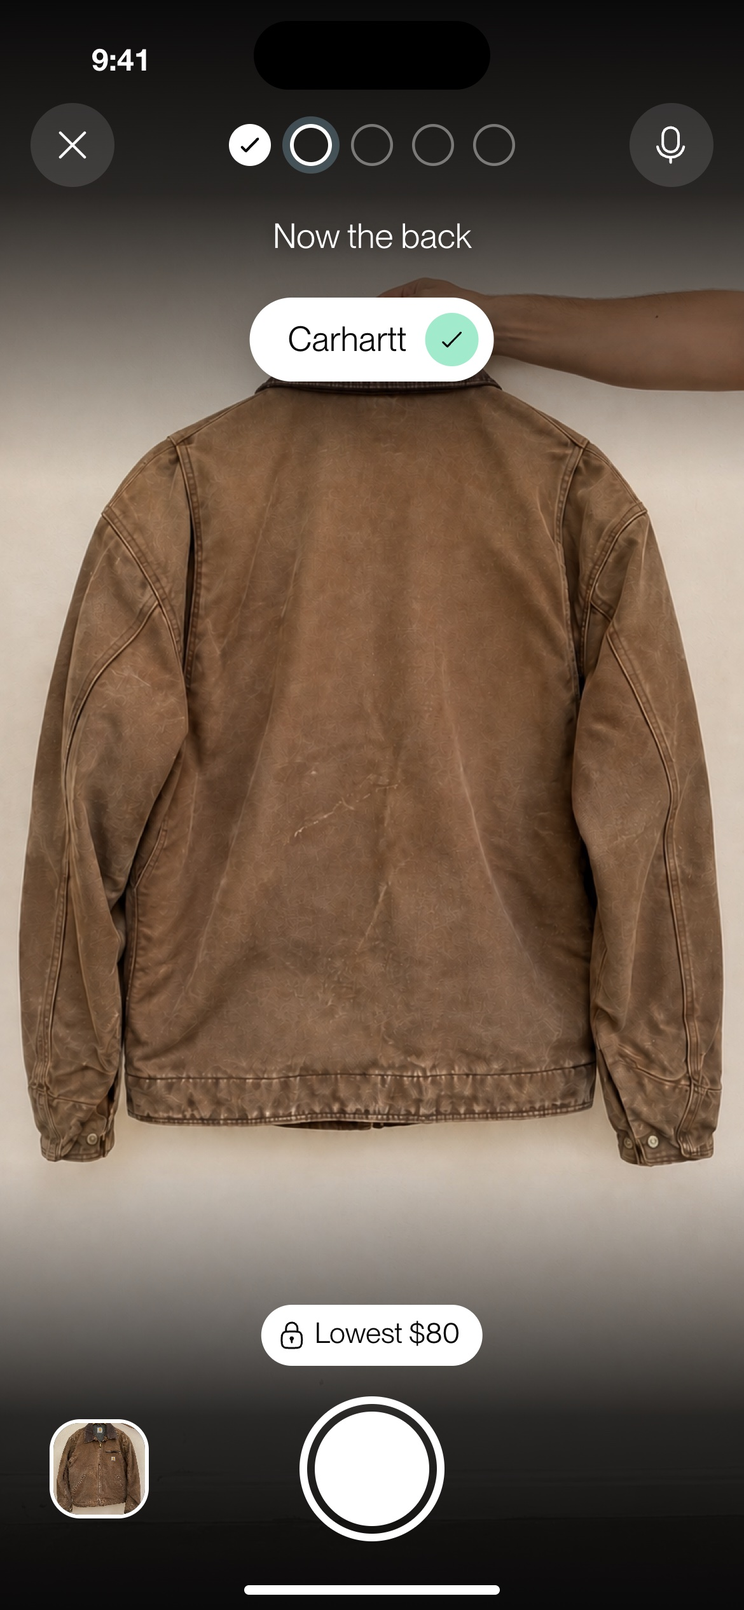
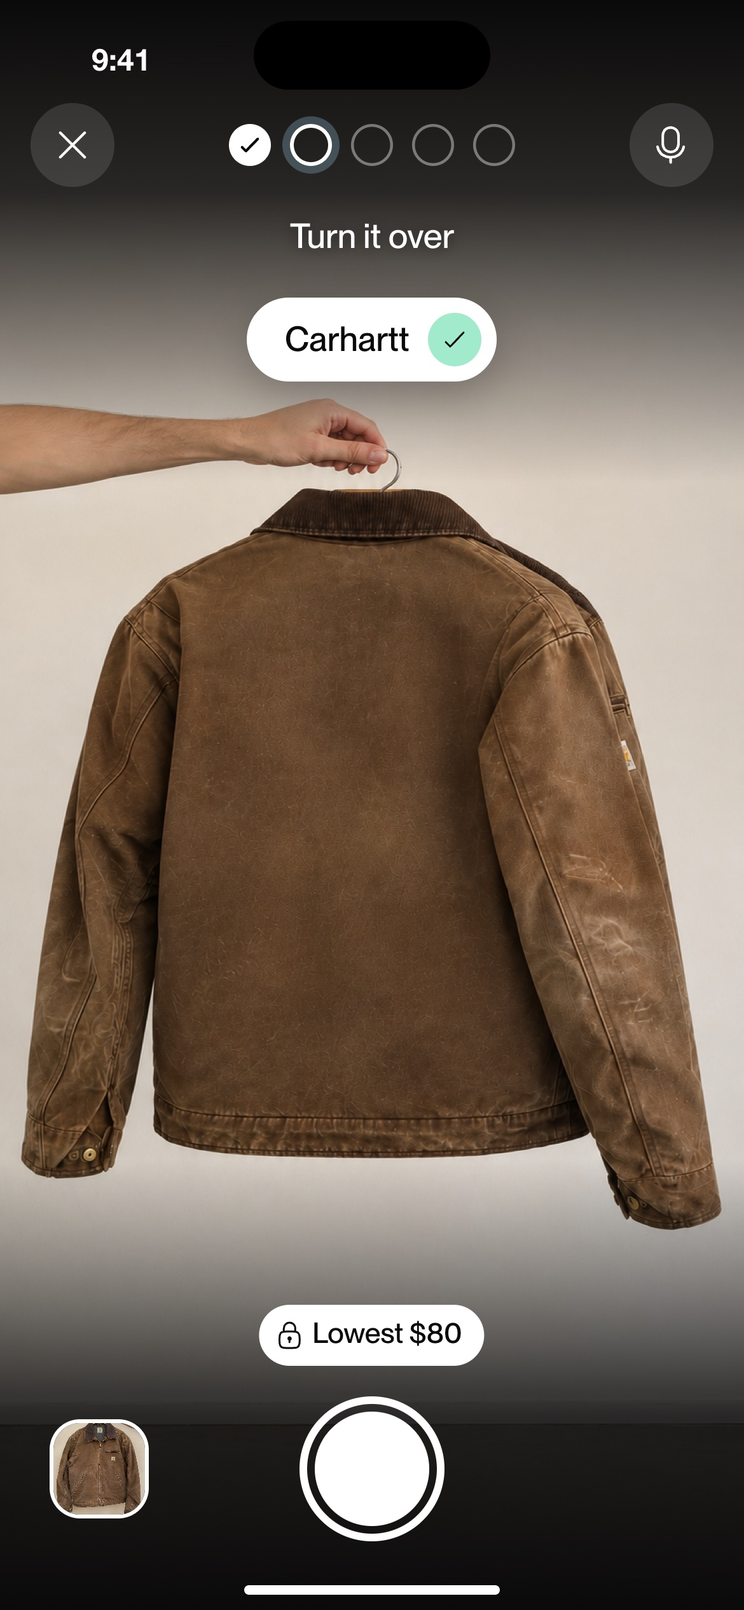
design(capture,buy): weight 500, tab pill, stages from the attribute tree
Camera: five stages for this jacket from the attribute tree, each frame's
instruction taken from it and true to its photo, and a mid-turn photo so the
found pop lands on plain wall. Buy: the current tab's pill, a stronger wash
that ends at the search field on a white page, View listing with Watch and
More, and the read at the tag icon size. Contrast measured on the renders.

Rests-on: product/words.md (Ben 2026-11-15 03:22, 03:24, 03:45), research/capture/ben/item-attributes-by-site.md section 4, spec/features/capture.md, brand/explore/round-11/mock

diff --git a/brand/explore/camera-buy/camera/camera.html b/brand/explore/camera-buy/camera/camera.html
@@ -9,7 +9,7 @@
 <link rel="stylesheet" href="../../round-11/mock/screens.css">
 <link rel="stylesheet" href="camera.css">
 <style>
-  body { margin: 0; background: var(--gray); font: var(--w-regular) var(--t-15)/var(--lh-15) var(--font-text); }
+  body { margin: 0; background: var(--gray); font: var(--w-text) var(--t-15)/var(--lh-15) var(--font-text); }
   .wall { display: flex; flex-wrap: wrap; gap: var(--s-6); padding: var(--s-6) var(--s-5); align-items: flex-start; }
   .bare .wall { padding: 0; gap: 0; }
 </style>
@@ -21,24 +21,28 @@
 // The photos under it are generated stand-ins for the live feed (features/capture/design/feed/). The order of shots and the found fact are sample content for a jacket.
 // Motion (how the pop arrives and leaves, the point cloud, haptics, voice) is the camera motion preview's, not this still's.
 const I = n => `<svg class="ic" viewBox="0 0 24 24" fill="none" aria-hidden="true">${SH_ICONS[n]}</svg>`;
-const STAGES = 5;
+// The stages that appear on the camera for this jacket, in the order of research/capture/ben/item-attributes-by-site.md section 4:
+// Kind, Photos, Label, Measure, Condition. Match, Category, Details and Size are skipped because the tag answers them; Review is after the camera.
+// A stage is one circle, so the front and the back share the Photos circle. Each instruction is that section's line for the stage,
+// or the capture spec's line for the view still missing ("Turn it over"), and each is true to its photo: it names what to do next.
+const STAGES = ['Kind', 'Photos', 'Label', 'Measure', 'Condition'];
 const MOMENTS = {
-  front: { ask: 'Show the front', done: 0, feed: 'feed-front', found: null },
-  back:  { ask: 'Now the back', done: 1, feed: 'feed-back', found: 'Carhartt', last: 'feed-front' },
-  tag:   { ask: 'Now the tag', done: 2, feed: 'feed-tag', found: null, last: 'feed-back' },
+  front: { ask: 'Lay it flat', done: 1, feed: 'feed-front', found: null },
+  back:  { ask: 'Turn it over', done: 1, feed: 'feed-turn', found: 'Carhartt', last: 'feed-front' },
+  tag:   { ask: 'Closer on the tag', done: 2, feed: 'feed-tag', found: null, last: 'feed-back' },
 };
 const FEED = '../../../../features/capture/design/feed/';
 
 function screen(k, low) {
   const m = MOMENTS[k];
-  const stages = Array.from({ length: STAGES }, (_, i) => `<li data-part="stage" class="${i < m.done ? 'done' : i === m.done ? 'now' : ''}">${I('tick')}</li>`).join('');
+  const stages = STAGES.map((name, i) => `<li data-part="stage" aria-label="${name}" class="${i < m.done ? 'done' : i === m.done ? 'now' : ''}">${I('tick')}</li>`).join('');
   return `<div class="sh fixed cam" data-view data-moment="${k}">
     <img class="feed" src="${FEED}${m.feed}.jpg" alt="Camera view">
     <i class="shade"></i>
     <div class="os" data-chrome><span>9:41</span><span></span></div>
     <div class="bar">
       <button class="round" data-part="cam-round" aria-label="Close">${I('close')}</button>
-      <ol class="stages" aria-label="${m.done} of ${STAGES} photos taken">${stages}</ol>
+      <ol class="stages" aria-label="${m.done} of ${STAGES.length} steps done">${stages}</ol>
       <button class="round" data-part="cam-round" aria-label="Talk" aria-pressed="false">${I('mic')}</button>
     </div>
     <p class="ask" aria-live="polite">${m.ask}</p>

diff --git a/brand/explore/camera-buy/buy/buy.css b/brand/explore/camera-buy/buy/buy.css
@@ -5,6 +5,10 @@
   --find-h: 56px;                  /* the search field: one tall control, the first thing on the tab */
   --match-photo: 180px;            /* the new match's photo: the largest thing in its card */
   --shelf-tile: 108px;             /* a tile on the Watching and Bought shelves: three fill the width between the margins */
+  /* The wash, as Ben asked at 03:22: stronger, an accent, ending no lower than the first control. Built from the ring's tokens */
+  --wash-1: color-mix(in srgb, var(--sky) 70%, transparent); --wash-2: color-mix(in srgb, var(--mint) 60%, transparent);
+  --wash: radial-gradient(120% 90% at 15% 0%, var(--wash-1), transparent 70%), radial-gradient(90% 80% at 95% 0%, var(--wash-2), transparent 70%);   /* tokens.css's --wash, restated so it reads these two stops */
+  --wash-h: calc(54px + var(--nav-h) + var(--s-4) + var(--find-h));   /* status bar, nav, gap, search field: the wash ends at the field's lower edge */
 }
 
 /* One field for words or a pasted link, with the camera inside it. Text you type is 18 (Art. 6) */
@@ -22,7 +26,7 @@
 .buy .match .big .ph { width: 100%; height: var(--match-photo); }
 .buy .match .big .site { right: var(--s-2); bottom: var(--s-2); }
 .buy .read { display: flex; align-items: center; gap: var(--s-1); }
-.buy .read .ic { width: 16px; height: 16px; }
+.buy .read .ic { width: var(--tag-icon); height: var(--tag-icon); }   /* a tag's icon size */
 .buy .two { display: grid; grid-template-columns: 1fr 1fr; gap: var(--s-3); }
 .buy .card.field .i2 { color: var(--on-field-2); }
 
@@ -31,10 +35,11 @@
 .buy .shelf .t { width: var(--shelf-tile); flex: none; }
 .buy .shelf .ph { width: var(--shelf-tile); height: var(--shelf-tile); }
 
-/* Round 11 shows a chosen tab by filling the icon's first path. The magnifier's first path is its handle, so the lens vanished:
-   here the lens is the filled part and the handle stays a stroke */
-.buy .tab[aria-current] .ic > :first-child { fill: none; stroke: currentColor; }
-.buy .tab[aria-current] .ic > :nth-child(2) { fill: currentColor; stroke: currentColor; }
+/* Ben, 03:45: the current tab shows a pill behind its icon. Round 11 has no such part yet, so it is drawn here from tokens; it belongs in screens.css.
+   The icon stays a line drawing, which also undoes the kit's fill of the first path (the Buy magnifier lost its lens to it) */
+.buy .tab:not(.add) .ic { box-sizing: content-box; padding: var(--s-1) var(--s-4); border-radius: var(--r-pill); }   /* every tab keeps the pill's room, so the labels stay on one line */
+.buy .tab[aria-current] .ic { background: var(--gray); }
+.sh.buy .tab[aria-current] .ic > :nth-child(n) { fill: none; stroke: currentColor; }
 
 /* Shelf titles are headings for a screen reader, not bold: the brand has no bold (Art. 6) */
-.buy h2 { font-weight: var(--w-regular); margin: 0; }
+.buy h2 { font-weight: var(--w-text); margin: 0; }

diff --git a/brand/explore/camera-buy/buy/buy.html b/brand/explore/camera-buy/buy/buy.html
@@ -43,10 +43,10 @@ const prices = (ask, fair) => `<div class="two">${ask ? `<div><div class="t13 i2
 // The new match is the one thing on the field, so it is the news, said once
 const match = `<div class="card field match" data-part="card-match">
   <span class="big">${photo('carhartt-jacket', 'Carhartt Detroit jacket')}${site('depop')}</span>${V(12)}
-  <div class="read t15">${ic('tick')}${lb('Fair price')}</div>${V(4)}
+  <div class="read t15">${ic('tick')}${lb('Fair price')}</div>${V(8)}
   <div class="t18 one">Carhartt Detroit jacket, M</div>${V(12)}
   ${prices('$62', '$55 to $70')}${V(16)}
-  <div class="ln"><button class="pill" data-part="pill-card">${lb('View listing')}</button></div></div>`;
+  <div class="ln"><button class="pill tall grow" data-part="pill-bar">${lb('View listing')}</button>${H(8)}<button class="pill l2 tall" data-part="pill-bar">${lb('Watch')}</button>${H(8)}<button class="pill dot l2 tall" aria-label="More" data-part="pill-bar-icon">${ic('more')}</button></div></div>`;   // the kit's acts(): the act grows, a light second, the rest under More
 // No match yet: what they asked for, with their own photo of it, on a white card
 const waiting = `<div class="card" data-part="card-item"><div class="ln h72"><span class="thumb">${photo('carhartt-jacket', 'Carhartt Detroit jacket').replace('class="ph"', 'class="ph p72"')}</span>${H(12)}
   <div class="fx between"><div class="t13 i2">Nothing yet</div><div class="t18 one">Carhartt Detroit jacket, M</div><div class="t15 i2 one">Fair range <span class="ink">$55 to $70</span> delivered</div></div></div></div>`;
@@ -55,7 +55,7 @@ const tile = (pic, name, s, label) => `<div class="t">${photo(pic, name)}${V(8)}
 const watching = `<div class="shelf">${tile('nike-dunks', 'Nike Dunk Low', 'ebay', '$48 delivered')}${tile('switch-oled', 'Switch OLED', 'mercari', '$214 delivered')}${tile('patagonia-fleece', 'Patagonia fleece', 'poshmark', '$52 delivered')}</div>`;
 const bought = `<div class="shelf">${tile('levis-501', 'Levi’s 501', 'poshmark', 'Arrives Thursday')}${tile('brass-lamp', 'Brass lamp', 'ebay', 'Delivered')}</div>`;
 
-const buy = k => `<div class="sh fixed sep-tint wm-center buy" data-view data-moment="${k}"><i class="wash"></i>${os}${nav}${V(16)}
+const buy = k => `<div class="sh fixed wm-center buy" data-view data-moment="${k}"><i class="wash"></i>${os}${nav}${V(16)}
   ${line(find)}${V(32)}
   ${line(`<div class="ln mid"><h2 class="t18 fx">New finds</h2>${running}</div>`)}${V(12)}
   ${line(k === 'match' ? match : waiting)}${V(32)}

diff --git a/brand/explore/camera-buy/camera/camera.css b/brand/explore/camera-buy/camera/camera.css
@@ -40,12 +40,12 @@
 .cam .stages li.done .ic { display: block; }
 
 .cam .ask { position: absolute; z-index: 4; top: var(--ask-top); left: var(--ask-side); right: var(--ask-side); margin: 0; text-align: center;
-  font: var(--w-regular) var(--t-18)/24px var(--font-text); color: var(--surface); text-shadow: var(--ask-shadow); }
+  font: var(--w-text) var(--t-18)/24px var(--font-text); color: var(--surface); text-shadow: var(--ask-shadow); }
 
 /* What the app read, for a moment: the name in ink on white, and a check on mint */
 .cam .found { position: absolute; z-index: 5; top: var(--found-top); left: 50%; transform: translateX(-50%); height: var(--found-h); border-radius: calc(var(--found-h) / 2);
   padding: 0 var(--s-2) 0 var(--s-5); display: flex; align-items: center; gap: 10px; background: var(--surface); color: var(--ink); box-shadow: var(--found-shadow);
-  font: var(--w-regular) var(--t-18)/24px var(--font-text); white-space: nowrap; }
+  font: var(--w-text) var(--t-18)/24px var(--font-text); white-space: nowrap; }
 .cam .found .dot { width: var(--found-dot); height: var(--found-dot); border-radius: var(--r-pill); background: var(--mint); display: grid; place-items: center; color: var(--ink); }
 .cam .found .ic { width: 16px; height: 16px; }
 

diff --git a/features/buy/design/round-2/README.md b/features/buy/design/round-2/README.md
@@ -1,6 +1,6 @@
 # Buy, round two: composed in code over photos
 
-Built the way Ben asked on 2026-11-15 at 03:24 ("piece them together yourself"): HTML from [brand/tokens.css](../../../../brand/tokens.css) and round 11's parts ([screens.css](../../../../brand/explore/round-11/mock/screens.css)), with the generated demo photos in [assets/demo-items/](../../../../assets/demo-items/README.md). It keeps what [the round-one merge](../round-1/merge.md) keeps: one field for words or a link with the camera inside it; the shelves New finds, Watching and Bought; the new match as the one card on the field, with a large photo, the site's logo, a two-word read, the asking price and the fair range both delivered, and one action, View listing; one quiet line that the search is running. The news is said once, by the card on the field. No browsing feed.
+Built the way Ben asked on 2026-11-15 at 03:24 ("piece them together yourself"): HTML from [brand/tokens.css](../../../../brand/tokens.css) and round 11's parts ([screens.css](../../../../brand/explore/round-11/mock/screens.css)), with the generated demo photos in [assets/demo-items/](../../../../assets/demo-items/README.md). It keeps what [the round-one merge](../round-1/merge.md) keeps: one field for words or a link with the camera inside it; the shelves New finds, Watching and Bought; the new match as the one card on the field, with a large photo, the site's logo, a two-word read, the asking price and the fair range both delivered; one quiet line that the search is running. The news is said once, by the card on the field. No browsing feed.
 
 Open [buy.html](../../../../brand/explore/camera-buy/buy/buy.html) (`?s=match` or `?s=none`). The source sits beside round 11's kit in `brand/explore/camera-buy/`; the type needs `fonts.local.css` beside it, which is not in git.
 
@@ -9,14 +9,50 @@ Open [buy.html](../../../../brand/explore/camera-buy/buy/buy.html) (`?s=match` o
 | [renders/buy-match.png](renders/buy-match.png) | A new match |
 | [renders/buy-none.png](renders/buy-none.png) | Nothing found yet, still searching |
 
-Rendered at 390 by 844, device scale 3, with PP Neue Montreal 400 and 500 and Clofie 600 loaded (`document.fonts.check`). Prices, ranges and sites are made up. *Agent proposal* until Ben picks.
+Rendered at 390 by 844, device scale 3, with PP Neue Montreal 500 and Clofie 600 loaded (`document.fonts` and `document.fonts.check`). Prices, ranges and sites are made up. *Agent proposal* until Ben picks.
+
+## This pass
+
+- **Weight 500** throughout (`--w-text`), Ben at 03:45.
+- **The current tab** shows a pill behind its icon, Ben at 03:45. Round 11's kit has no such part, so [buy.css](../../../../brand/explore/camera-buy/buy/buy.css) draws it from tokens (`--gray`, `--r-pill`, `--s-1`, `--s-4`); it belongs in screens.css. The icon stays a line drawing, which ends the kit's fill of the first path that made the Buy magnifier a solid blob. Every tab keeps the pill's room so the labels stay on one line.
+- **The wash**, Ben at 03:22: stronger, an accent, ending at the search field's lower edge, and the page under it white, not tinted. No newer wash token was on main, so buy.css sets the two stops from `--sky` and `--mint` and restates `--wash` so it reads them. Today should take the same values from tokens.css so the two match; that file is the other thread's.
+- **The match card's actions**: View listing grows to fill the row, with a light Watch and More beside it, the way the kit's cards set their buttons. One action alone failed the judge's L9.
+- **The read**: "Fair price" now sits 8 above the name (parts of one thing, per the kit's separators), with its check at the tag icon size (`--tag-icon`).
+
+## Values that are not tokens, and why
+
+At the top of buy.css, one line each: the search field's height (56, one tall control), the match photo's height (180, the largest thing in its card), the shelf tile (108, three fit between the margins), and the wash's two stops and height (built from tokens; the height is the status bar, nav, a gap and the field, added up).
+
+## Contrast, measured on the render
+
+Each text's color, blended where it is translucent, against the darkest and the lightest pixel behind it, read from the same frame rendered with every text and icon hidden. Under 4.5:1 would fail; nothing does.
+
+| Text | Ground | Against darkest | Against lightest |
+|---|---|---|---|
+| Fair price, Carhartt Detroit jacket, $62, $55 to $70 (ink) | the field | 12.77 at least | 13.03 at least |
+| Asking, delivered (ink-2) | the field | 5.31 | 5.36 |
+| Fair range, delivered (ink-2) | the field | 5.35 | 5.43 |
+| View listing (white) | the black pill | 19.80 | 19.80 |
+| secondhand, 9:41 (ink) | the wash | 16.27 | 17.03 |
+| Find an item or paste a link, Searching (ink-2) | white under the wash | 20.20 | 6.31 |
+
+## Judge pass
+
+`node scripts/ui-rules.mjs judge app`, read against both frames by a reviewer who did not build it:
+
+- **L9**, fixed: the match card offered one action; it now has View listing, Watch and More.
+- **L29** fails on purpose: the rule still says the chosen tab is a filled icon with no pill. Ben chose the pill at 03:45, so the rule is behind.
+- **L5**: the rule wants the second action as an outline; round 11 made it a light fill (R33). The kit and the rule disagree; this follows the kit.
+- **U3**: a decision card wants a tag with a word and an icon above its title. "Fair price" has a word and an icon but is not a tag, because no state color means "fair". *Taste call*.
+- Passed in both frames: L4 (every item has its photo, the match's is the largest), L26 and G5 (the field on one thing), L40 (photos keep their 1 px edge), B2 (a photo first), B24 (every number has its label), D2, L16 (shelves are tiles, not boxed rows).
 
 ## What the checkers flag
 
-`node scripts/brand-check.mjs brand/explore/camera-buy/buy/buy.html --medium app`: 13 errors, every one also raised on round 11's own mock (`brand/explore/round-11/mock/check.html`), so they belong to the kit, not this screen: the tinted page (B7), the wordmark's place and the wash under it (B3, B32), the message count (U1, B17) and the field's drift written by hand (B5).
+`node scripts/brand-check.mjs brand/explore/camera-buy/buy/buy.html --medium app`: 37 errors.
 
-Fixed here: the shelves first ran past the right margin (B17, B34) and their site badges read as a row of logos taller than the wordmark (B33); the tiles now fit three across with the logo on the price line, as on Sell. The shelf titles were bold by browser default; they are regular now.
-
-Found in round 11's kit: a chosen tab fills its icon's first path, and the magnifier's first path is its handle, so a chosen Buy tab lost its lens. [buy.css](../../../../brand/explore/camera-buy/buy/buy.css) works around it; the fix belongs in screens.css.
+- **B13**, 21 of them: text at weight 500. The checker still expects 400; Ben decided 500 and tokens.css has `--w-text: 500`. The checker is behind.
+- **B4 and B5** on the wash: restating `--wash` with stronger stops reads as a second, hand-built gradient. It goes away when the stronger wash lands in tokens.css.
+- **B31**: View listing and Watch are one kind of button at two widths. Round 11's own sale screen raises the same.
+- **From the kit**, also raised on round 11's own mock: the wordmark's place (B3), the message count (U1, B17) and the field's drift written by hand (B5).
 
 `node scripts/copy-lint.mjs` on every string: clean.

diff --git a/features/capture/design/round-2/README.md b/features/capture/design/round-2/README.md
@@ -4,28 +4,60 @@ Ben, 2026-11-15 03:24, on round two: "combine the brand system created with ai p
 
 Open [camera.html](../../../../brand/explore/camera-buy/camera/camera.html) in a browser (`?s=front`, `?s=back`, `?s=tag`; add `&low=80` for a saved lowest price). The source sits beside round 11's kit in `brand/explore/camera-buy/`, because the repo's check reads anything outside `brand/` as app code and these values are not locked. The type needs `fonts.local.css` beside it, which is not in git (the round 11 README says how).
 
-| Render | Shows |
-|---|---|
-| [renders/cam-front.jpg](renders/cam-front.jpg) | Nothing done yet |
-| [renders/cam-back.jpg](renders/cam-back.jpg) | The front done, and what the app read popping in |
-| [renders/cam-tag.jpg](renders/cam-tag.jpg) | Two done |
-| [renders/cam-back-lowest.jpg](renders/cam-back-lowest.jpg) | The variant with a saved lowest price |
+| Render | Stages done | Instruction | Photo |
+|---|---|---|---|
+| [renders/cam-front.jpg](renders/cam-front.jpg) | Kind | Lay it flat | The front, held up |
+| [renders/cam-back.jpg](renders/cam-back.jpg) | Kind (Photos under way), "Carhartt" just read | Turn it over | The jacket partway turned |
+| [renders/cam-tag.jpg](renders/cam-tag.jpg) | Kind, Photos | Closer on the tag | The collar lifted, tag showing |
+| [renders/cam-back-lowest.jpg](renders/cam-back-lowest.jpg) | as cam-back | as cam-back, with "Lowest $80" | as cam-back |
 
-What it follows: Ben's 03:17 notes (stages as empty circles that turn to checks, one centered instruction under them, a found fact with a check, the person presses the shutter) and [the round-one merge](../round-1/merge.md). Sizes are the ones the camera's motion preview uses, so the still and the motion share one set of values. The motion itself (how the pop comes and goes, the point cloud, haptics, voice) belongs to the motion preview, not this still. Every value not in tokens.css is one line at the top of [camera.css](../../../../brand/explore/camera-buy/camera/camera.css). *Agent proposal* until Ben picks.
+## What it follows
 
-Rendered at 390 by 844, device scale 3, with PP Neue Montreal 400 loaded (`document.fonts.check`); the camera uses no other face.
+- **Stages.** One circle per stage that appears for this jacket, from [section 4 of the attribute tree](../../../../research/capture/ben/item-attributes-by-site.md#4-the-decision-tree-from-the-first-photo-to-a-postable-listing): Kind, Photos, Label, Measure, Condition. Match, Category, Details and Size do not appear because the tag answers them, and Review comes after the camera. A stage is one circle, so the front and the back share the Photos circle.
+- **Instructions.** Each is the tree's line for its stage ("Lay it flat", "Closer on the tag") or the capture spec's line for the view still missing ("Turn it over", [spec/features/capture.md](../../../../spec/features/capture.md)). Each names what to do next and is true to its photo.
+- **The found pop** belongs to the moment just after the first photo. At 156 from the top it landed on the hand or the jacket in all three first photos, so a fourth photo was made with that band plain ([feed lineage](../feed/lineage.md)); the pop did not move.
+- **Weight.** Text is 500 (`--w-text`), as Ben decided at 03:45.
+- Ben's 03:17 notes and [the round-one merge](../round-1/merge.md). Motion (how the pop comes and goes, the point cloud, haptics, voice) belongs to the motion preview, not this still.
+
+Rendered at 390 by 844, device scale 3, with PP Neue Montreal 500 loaded (`document.fonts` and `document.fonts.check`).
+
+## Values that are not tokens, and why
+
+All are at the top of [camera.css](../../../../brand/explore/camera-buy/camera/camera.css), one line each. They are the camera motion preview's sizes, kept so the still and the motion share one set: the top bar (54, 16, 44), close and voice at white 12%, stages of 22 with gaps of 10, the instruction at 112 with 24 insets and 24 line height, its text shadow, the pop at 156 (44 tall, a 28 mint circle, its shadow), the bottom row (36, 28), the 76 shutter with a 60 fill, the 48 thumbnail with a 14 corner, and the shade's stops. Colors inside them are mixed from `--ink`, `--surface`, `--sky` and `--mint`.
+
+## Contrast, measured on the render
+
+Each text's color against the darkest and the lightest pixel behind it, read from the same frame rendered with every text and icon hidden (text shadow not counted). Under 4.5:1 would fail; nothing does.
+
+| Frame | Text | Against darkest | Against lightest |
+|---|---|---|---|
+| front | Lay it flat (white on the shade) | 12.39 | 8.55 |
+| back | Turn it over | 12.37 | 8.55 |
+| back | Carhartt (ink on white) | 14.28 | 19.80 |
+| back, lowest | Lowest $80 | 19.80 | 19.80 |
+| tag | Closer on the tag | 13.88 | 10.10 |
+| all | 9:41 (white on the shade) | 19.0 | 18.1 |
+
+## Judge pass
+
+`node scripts/ui-rules.mjs judge app`, read against each frame by a reviewer who did not build it:
+
+- **L2** (only black, white and gray, no color ground): front and tag have no color ground beyond the current stage's faint sky halo; back has the pop's mint. *Taste call*: a camera is the photo, and adding a color ground would be decoration.
+- **Q1** (name the one departure): the found fact arrives as one word with a mint check over the live view. *Taste call* whether that is enough of a departure.
+- Passed in every frame: U4 (stages differ by shape, not color), D3, B1 (the shade is the ground for the words and controls), B2 (the photo first), L32 (no Clofie), P8 (no tab bar, as fixed).
 
 ## What the checkers flag
 
-`node scripts/brand-check.mjs brand/explore/camera-buy/camera/camera.html --medium app`: 25 errors, all from the motion preview's values, left as they are on purpose so there is one set:
+`node scripts/brand-check.mjs brand/explore/camera-buy/camera/camera.html --medium app`: 29 errors, none changed:
 
 | Rule | What | Why it stays |
 |---|---|---|
-| B6 | The instruction is white text over the photo | Its ground is the shade, as the motion preview draws it |
-| B5 | The shade is a gradient written in the file | The shade under the camera has no token yet |
-| B7 | Close and voice are white at 12% | The preview's value; no token |
-| B17 | Stages and the found pop use a gap of 10 | The preview's value; not on the space scale |
-| B20 | The last photo has a 14 corner | The preview's value; not on the radius scale |
+| B13 | Text at weight 500 | The checker still expects 400; Ben decided 500 at 03:45 and tokens.css has `--w-text: 500`. The checker is behind |
+| B6 | The instruction is white over the photo | Its ground is the shade, as the motion preview draws it |
+| B5 | The shade is a gradient written in the file | No token for the camera's shade yet |
+| B7 | Close and voice at white 12% | The preview's value |
+| B17 | Gaps of 10 | The preview's value |
+| B20 | The thumbnail's 14 corner | The preview's value |
 | B8 | "The field fills 3 views" | The checker reads the full-screen camera as a field; the camera has no field |
 
 `node scripts/copy-lint.mjs` on every string: clean.

diff --git a/features/capture/design/feed/lineage.md b/features/capture/design/feed/lineage.md
@@ -20,3 +20,18 @@ Last line, verbatim:
 ```
 Call times: node spec/log.mjs /Users/benverhaalen/secondhand-runs/camera-feed/logs/job.image-s_mwha5yow.jsonl
 ```
+
+## feed-turn, added for the camera's second frame
+
+The found pop sits at 156 from the top. In all three photos above, something is there: the hanger and hand (front), the hand and collar (back), a sleeve (tag). The pop belongs to the moment just after the first photo, so one more photo was made with the jacket partway turned and the top quarter plain.
+
+- Plan: `features/capture/design/feed-turn.plan.json` (the back job's words, with "partway through turning it" and the top quarter kept plain), run once on 2026-11-15, 03:51 to 03:53 UTC, exit 0, `gpt-6-astra`
+- feed-turn: succeeded, `feed-turn.jpg`
+
+Runner summary: `1 of 1 done. Most at once: 1 of 1. Load at its peak: 5.5 on 8 cores (new calls slow above 5.6). These calls at their peak: 65% of one core, 0.2 GB. Swapping at its peak: 1 MB a second. Slowed on 0 ticks.`
+
+Last line, verbatim:
+
+```
+Call times: node spec/log.mjs /Users/benverhaalen/secondhand-runs/camera-feed-turn/logs/job.image-s_mwharuhc.jsonl
+```
